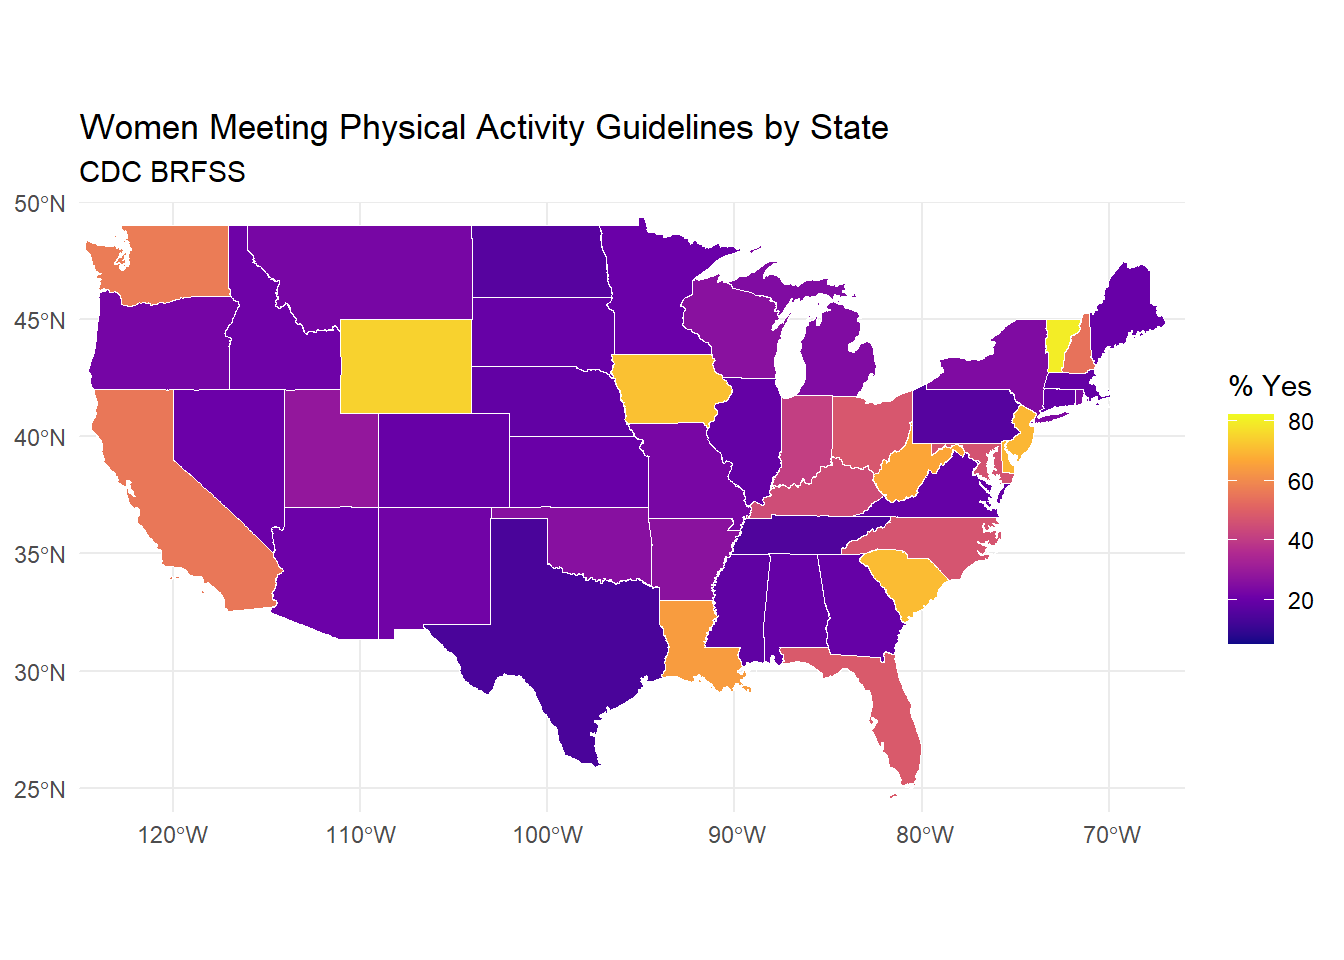
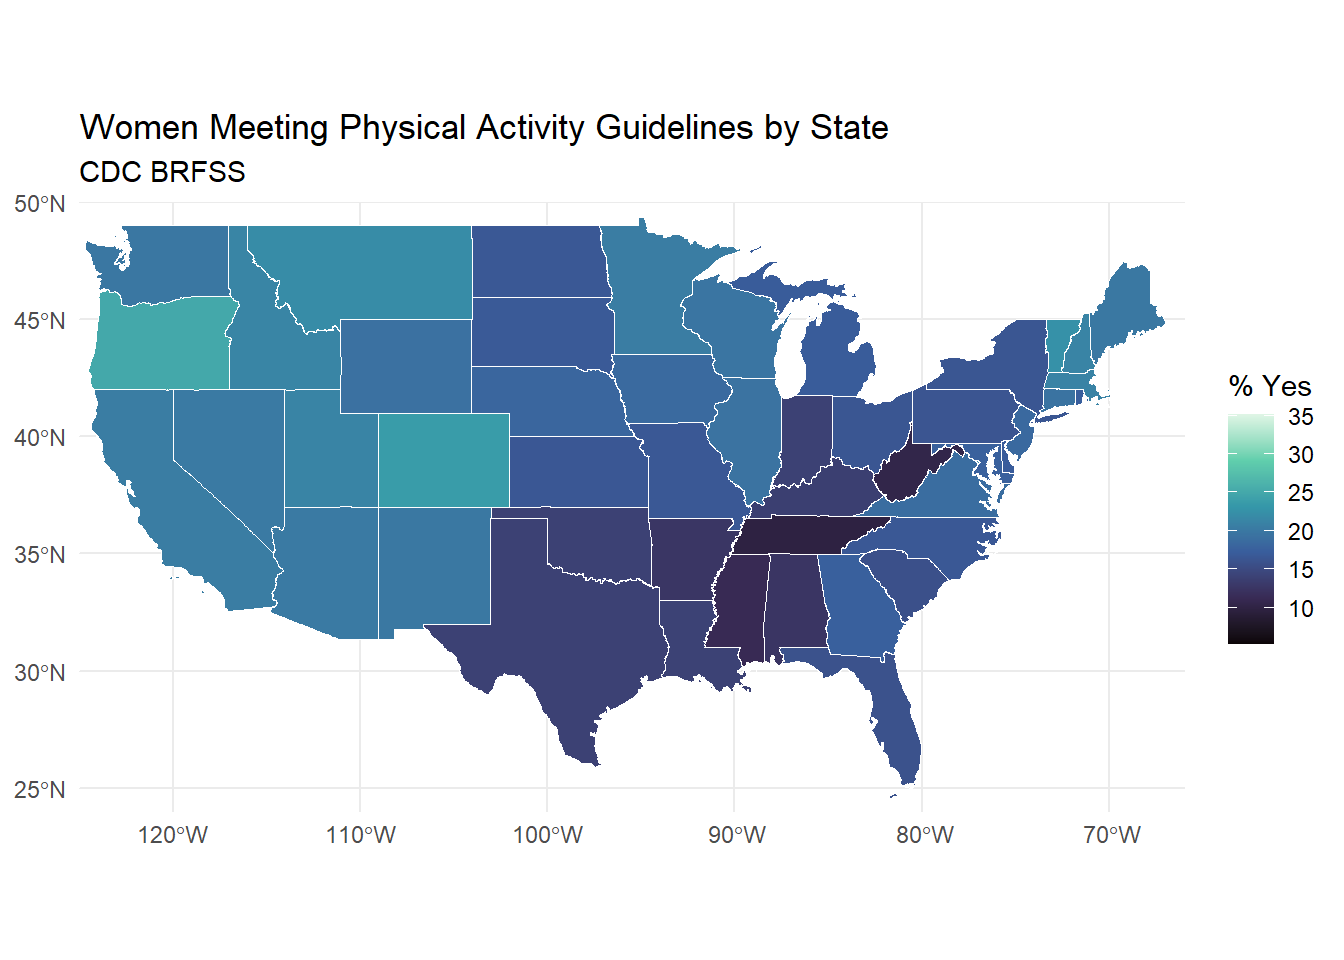
updated chloropleth

Changed region(s): [[0.0625, 0.2188, 0.875, 0.8125], [0.9062, 0.4062, 1.0, 0.6875]]

diff --git a/docs/results.html b/docs/results.html
@@ -546,7 +546,7 @@ pre > code.sourceCode > span > a:first-child::before { text-decoration: underlin
 </div>
 </div>
 </div>
-<p>To help link the NHANES data trends to what I wanted to explore using the BRFSS, I plotted the sedentary minutes responses across the years. Here we can see that reported sedentary time has decreased over the last two cycles. Based on this, when I move to explore physical activity levels, I would expect this would correspond to increased time reported.</p>
+<p>To help link the NHANES data trends to what I wanted to explore using the BRFSS, I plotted the sedentary minutes responses across the years. Here we can see that reported sedentary time has decreased over the last two cycles. Based on this, when I move to explore physical activity levels, I would expect this would correspond to an increase in physical time reported.</p>
 <div class="cell">
 <details class="code-fold">
 <summary>Code</summary>
@@ -577,6 +577,7 @@ pre > code.sourceCode > span > a:first-child::before { text-decoration: underlin
 </div>
 </div>
 </div>
+<p>Officially moving to work with the BRFSS dataset. My main goal with this was to supplement my analysis of physical activity trends for my original research question.</p>
 <div class="cell">
 <details class="code-fold">
 <summary>Code</summary>
@@ -624,7 +625,7 @@ pre > code.sourceCode > span > a:first-child::before { text-decoration: underlin
 <span id="cb16-14"><a href="#cb16-14" aria-hidden="true" tabindex="-1"></a>  <span class="fu">labs</span>(</span>
 <span id="cb16-15"><a href="#cb16-15" aria-hidden="true" tabindex="-1"></a>    <span class="at">title =</span> <span class="st">"Women's Physical Activity Trends (2011–2023)"</span>,</span>
 <span id="cb16-16"><a href="#cb16-16" aria-hidden="true" tabindex="-1"></a>    <span class="at">x =</span> <span class="st">"Year"</span>,</span>
-<span id="cb16-17"><a href="#cb16-17" aria-hidden="true" tabindex="-1"></a>    <span class="at">y =</span> <span class="st">"% of Women Meeting Guideline or Responding 'Yes'"</span>,</span>
+<span id="cb16-17"><a href="#cb16-17" aria-hidden="true" tabindex="-1"></a>    <span class="at">y =</span> <span class="st">"% of Women Responding 'Yes'"</span>,</span>
 <span id="cb16-18"><a href="#cb16-18" aria-hidden="true" tabindex="-1"></a>    <span class="at">color =</span> <span class="st">"Activity Type"</span></span>
 <span id="cb16-19"><a href="#cb16-19" aria-hidden="true" tabindex="-1"></a>  ) <span class="sc">+</span></span>
 <span id="cb16-20"><a href="#cb16-20" aria-hidden="true" tabindex="-1"></a>  <span class="fu">theme_minimal</span>(<span class="at">base_size =</span> <span class="dv">14</span>) <span class="sc">+</span></span>
@@ -671,46 +672,65 @@ pre > code.sourceCode > span > a:first-child::before { text-decoration: underlin
 </div>
 </div>
 </div>
-<p>Finally, I really wanted to look at this spatially to see if certain areas of the country were driving trends more than others.</p>
+<p>Finally, I really wanted to look at this spatially to see if certain areas of the country were driving trends more than others. I chose to do this across the starting and ending range of my data to also visualize how the increase in activity level was spread across the country.</p>
 <div class="cell">
 <details class="code-fold">
 <summary>Code</summary>
 <div class="sourceCode cell-code" id="cb18"><pre class="sourceCode r code-with-copy"><code class="sourceCode r"><span id="cb18-1"><a href="#cb18-1" aria-hidden="true" tabindex="-1"></a>women_pa_13 <span class="ot">&lt;-</span> women_brf <span class="sc">|&gt;</span></span>
 <span id="cb18-2"><a href="#cb18-2" aria-hidden="true" tabindex="-1"></a>  <span class="fu">filter</span>(</span>
-<span id="cb18-3"><a href="#cb18-3" aria-hidden="true" tabindex="-1"></a>    Year <span class="sc">==</span> <span class="dv">2013</span>,                       </span>
-<span id="cb18-4"><a href="#cb18-4" aria-hidden="true" tabindex="-1"></a>    Break_Out_Category <span class="sc">==</span> <span class="st">"Sex"</span>,</span>
-<span id="cb18-5"><a href="#cb18-5" aria-hidden="true" tabindex="-1"></a>    Break_Out <span class="sc">==</span> <span class="st">"Female"</span>,</span>
-<span id="cb18-6"><a href="#cb18-6" aria-hidden="true" tabindex="-1"></a>    Response <span class="sc">==</span> <span class="st">"Yes"</span></span>
-<span id="cb18-7"><a href="#cb18-7" aria-hidden="true" tabindex="-1"></a>  ) <span class="sc">|&gt;</span></span>
-<span id="cb18-8"><a href="#cb18-8" aria-hidden="true" tabindex="-1"></a>  <span class="fu">transmute</span>(</span>
-<span id="cb18-9"><a href="#cb18-9" aria-hidden="true" tabindex="-1"></a>    <span class="at">state_abbr =</span> Locationabbr,    </span>
-<span id="cb18-10"><a href="#cb18-10" aria-hidden="true" tabindex="-1"></a>    <span class="at">pct_yes    =</span> <span class="fu">as.numeric</span>(Data_value)</span>
-<span id="cb18-11"><a href="#cb18-11" aria-hidden="true" tabindex="-1"></a>  )</span>
+<span id="cb18-3"><a href="#cb18-3" aria-hidden="true" tabindex="-1"></a>    Year <span class="sc">==</span> <span class="dv">2013</span>, </span>
+<span id="cb18-4"><a href="#cb18-4" aria-hidden="true" tabindex="-1"></a>    Topic <span class="sc">==</span> <span class="st">"Physical Activity Index"</span>,</span>
+<span id="cb18-5"><a href="#cb18-5" aria-hidden="true" tabindex="-1"></a>    Response <span class="sc">==</span> <span class="st">"Yes"</span></span>
+<span id="cb18-6"><a href="#cb18-6" aria-hidden="true" tabindex="-1"></a>  ) <span class="sc">|&gt;</span></span>
+<span id="cb18-7"><a href="#cb18-7" aria-hidden="true" tabindex="-1"></a>  <span class="fu">transmute</span>(</span>
+<span id="cb18-8"><a href="#cb18-8" aria-hidden="true" tabindex="-1"></a>    <span class="at">state_abbr =</span> Locationabbr,    </span>
+<span id="cb18-9"><a href="#cb18-9" aria-hidden="true" tabindex="-1"></a>    <span class="at">pct_yes    =</span> <span class="fu">as.numeric</span>(Data_value)</span>
+<span id="cb18-10"><a href="#cb18-10" aria-hidden="true" tabindex="-1"></a>  )</span>
+<span id="cb18-11"><a href="#cb18-11" aria-hidden="true" tabindex="-1"></a></span>
 <span id="cb18-12"><a href="#cb18-12" aria-hidden="true" tabindex="-1"></a></span>
-<span id="cb18-13"><a href="#cb18-13" aria-hidden="true" tabindex="-1"></a></span>
-<span id="cb18-14"><a href="#cb18-14" aria-hidden="true" tabindex="-1"></a><span class="co">#states_sf &lt;- states(cb = TRUE)</span></span>
-<span id="cb18-15"><a href="#cb18-15" aria-hidden="true" tabindex="-1"></a><span class="co">#sf::st_write(states_sf, "states_sf.gpkg", quiet = TRUE)</span></span>
-<span id="cb18-16"><a href="#cb18-16" aria-hidden="true" tabindex="-1"></a>states_sf <span class="ot">&lt;-</span> sf<span class="sc">::</span><span class="fu">st_read</span>(<span class="st">"states_sf.gpkg"</span>, <span class="at">quiet =</span> <span class="cn">TRUE</span>)</span>
-<span id="cb18-17"><a href="#cb18-17" aria-hidden="true" tabindex="-1"></a></span>
-<span id="cb18-18"><a href="#cb18-18" aria-hidden="true" tabindex="-1"></a></span>
-<span id="cb18-19"><a href="#cb18-19" aria-hidden="true" tabindex="-1"></a>states_joined_13 <span class="ot">&lt;-</span> states_sf <span class="sc">|&gt;</span></span>
-<span id="cb18-20"><a href="#cb18-20" aria-hidden="true" tabindex="-1"></a>  <span class="fu">left_join</span>(women_pa_13, <span class="at">by =</span> <span class="fu">c</span>(<span class="st">"STUSPS"</span> <span class="ot">=</span> <span class="st">"state_abbr"</span>))</span>
-<span id="cb18-21"><a href="#cb18-21" aria-hidden="true" tabindex="-1"></a></span>
-<span id="cb18-22"><a href="#cb18-22" aria-hidden="true" tabindex="-1"></a></span>
-<span id="cb18-23"><a href="#cb18-23" aria-hidden="true" tabindex="-1"></a><span class="fu">ggplot</span>(states_joined_13) <span class="sc">+</span></span>
-<span id="cb18-24"><a href="#cb18-24" aria-hidden="true" tabindex="-1"></a>  <span class="fu">geom_sf</span>(<span class="fu">aes</span>(<span class="at">fill =</span> pct_yes), <span class="at">color =</span> <span class="st">"white"</span>, <span class="at">size =</span> <span class="fl">0.2</span>) <span class="sc">+</span></span>
-<span id="cb18-25"><a href="#cb18-25" aria-hidden="true" tabindex="-1"></a>  <span class="fu">scale_fill_viridis_c</span>(<span class="at">option =</span> <span class="st">"plasma"</span>, <span class="at">name =</span> <span class="st">"% Yes"</span>) <span class="sc">+</span></span>
-<span id="cb18-26"><a href="#cb18-26" aria-hidden="true" tabindex="-1"></a>  <span class="fu">coord_sf</span>(</span>
-<span id="cb18-27"><a href="#cb18-27" aria-hidden="true" tabindex="-1"></a>    <span class="at">xlim =</span> <span class="fu">c</span>(<span class="sc">-</span><span class="dv">125</span>, <span class="sc">-</span><span class="dv">66</span>),   <span class="co"># zoom to US</span></span>
-<span id="cb18-28"><a href="#cb18-28" aria-hidden="true" tabindex="-1"></a>    <span class="at">ylim =</span> <span class="fu">c</span>(<span class="dv">24</span>, <span class="dv">50</span>),</span>
-<span id="cb18-29"><a href="#cb18-29" aria-hidden="true" tabindex="-1"></a>    <span class="at">expand =</span> <span class="cn">FALSE</span></span>
-<span id="cb18-30"><a href="#cb18-30" aria-hidden="true" tabindex="-1"></a>  ) <span class="sc">+</span></span>
-<span id="cb18-31"><a href="#cb18-31" aria-hidden="true" tabindex="-1"></a>  <span class="fu">labs</span>(</span>
-<span id="cb18-32"><a href="#cb18-32" aria-hidden="true" tabindex="-1"></a>    <span class="at">title =</span> <span class="st">"Women Meeting Physical Activity Guidelines by State"</span>,</span>
-<span id="cb18-33"><a href="#cb18-33" aria-hidden="true" tabindex="-1"></a>    <span class="at">subtitle =</span> <span class="st">"CDC BRFSS"</span>,</span>
-<span id="cb18-34"><a href="#cb18-34" aria-hidden="true" tabindex="-1"></a>    <span class="at">fill =</span> <span class="st">"% Yes"</span></span>
-<span id="cb18-35"><a href="#cb18-35" aria-hidden="true" tabindex="-1"></a>  ) <span class="sc">+</span></span>
-<span id="cb18-36"><a href="#cb18-36" aria-hidden="true" tabindex="-1"></a>  <span class="fu">theme_minimal</span>()</span></code><button title="Copy to Clipboard" class="code-copy-button"><i class="bi"></i></button></pre></div>
+<span id="cb18-13"><a href="#cb18-13" aria-hidden="true" tabindex="-1"></a>women_pa_23 <span class="ot">&lt;-</span> women_brf <span class="sc">|&gt;</span></span>
+<span id="cb18-14"><a href="#cb18-14" aria-hidden="true" tabindex="-1"></a>  <span class="fu">filter</span>(</span>
+<span id="cb18-15"><a href="#cb18-15" aria-hidden="true" tabindex="-1"></a>    Year <span class="sc">==</span> <span class="dv">2023</span>, </span>
+<span id="cb18-16"><a href="#cb18-16" aria-hidden="true" tabindex="-1"></a>    Topic <span class="sc">==</span> <span class="st">"Physical Activity Index"</span>,</span>
+<span id="cb18-17"><a href="#cb18-17" aria-hidden="true" tabindex="-1"></a>    Response <span class="sc">==</span> <span class="st">"Yes"</span></span>
+<span id="cb18-18"><a href="#cb18-18" aria-hidden="true" tabindex="-1"></a>  ) <span class="sc">|&gt;</span></span>
+<span id="cb18-19"><a href="#cb18-19" aria-hidden="true" tabindex="-1"></a>  <span class="fu">transmute</span>(</span>
+<span id="cb18-20"><a href="#cb18-20" aria-hidden="true" tabindex="-1"></a>    <span class="at">state_abbr =</span> Locationabbr,    </span>
+<span id="cb18-21"><a href="#cb18-21" aria-hidden="true" tabindex="-1"></a>    <span class="at">pct_yes    =</span> <span class="fu">as.numeric</span>(Data_value)</span>
+<span id="cb18-22"><a href="#cb18-22" aria-hidden="true" tabindex="-1"></a>  )</span>
+<span id="cb18-23"><a href="#cb18-23" aria-hidden="true" tabindex="-1"></a></span>
+<span id="cb18-24"><a href="#cb18-24" aria-hidden="true" tabindex="-1"></a><span class="co">#realized I needed to freeze the color scales so graphs would be comparable</span></span>
+<span id="cb18-25"><a href="#cb18-25" aria-hidden="true" tabindex="-1"></a>min_val <span class="ot">&lt;-</span> <span class="fu">min</span>(<span class="fu">c</span>(women_pa_13<span class="sc">$</span>pct_yes, women_pa_23<span class="sc">$</span>pct_yes), <span class="at">na.rm =</span> <span class="cn">TRUE</span>)</span>
+<span id="cb18-26"><a href="#cb18-26" aria-hidden="true" tabindex="-1"></a>max_val <span class="ot">&lt;-</span> <span class="fu">max</span>(<span class="fu">c</span>(women_pa_13<span class="sc">$</span>pct_yes, women_pa_23<span class="sc">$</span>pct_yes), <span class="at">na.rm =</span> <span class="cn">TRUE</span>)</span>
+<span id="cb18-27"><a href="#cb18-27" aria-hidden="true" tabindex="-1"></a></span>
+<span id="cb18-28"><a href="#cb18-28" aria-hidden="true" tabindex="-1"></a></span>
+<span id="cb18-29"><a href="#cb18-29" aria-hidden="true" tabindex="-1"></a></span>
+<span id="cb18-30"><a href="#cb18-30" aria-hidden="true" tabindex="-1"></a><span class="co">#states_sf &lt;- states(cb = TRUE)</span></span>
+<span id="cb18-31"><a href="#cb18-31" aria-hidden="true" tabindex="-1"></a><span class="co">#sf::st_write(states_sf, "states_sf.gpkg", quiet = TRUE)</span></span>
+<span id="cb18-32"><a href="#cb18-32" aria-hidden="true" tabindex="-1"></a>states_sf <span class="ot">&lt;-</span> sf<span class="sc">::</span><span class="fu">st_read</span>(<span class="st">"states_sf.gpkg"</span>, <span class="at">quiet =</span> <span class="cn">TRUE</span>)</span>
+<span id="cb18-33"><a href="#cb18-33" aria-hidden="true" tabindex="-1"></a></span>
+<span id="cb18-34"><a href="#cb18-34" aria-hidden="true" tabindex="-1"></a></span>
+<span id="cb18-35"><a href="#cb18-35" aria-hidden="true" tabindex="-1"></a>states_joined_13 <span class="ot">&lt;-</span> states_sf <span class="sc">|&gt;</span></span>
+<span id="cb18-36"><a href="#cb18-36" aria-hidden="true" tabindex="-1"></a>  <span class="fu">left_join</span>(women_pa_13, <span class="at">by =</span> <span class="fu">c</span>(<span class="st">"STUSPS"</span> <span class="ot">=</span> <span class="st">"state_abbr"</span>))</span>
+<span id="cb18-37"><a href="#cb18-37" aria-hidden="true" tabindex="-1"></a></span>
+<span id="cb18-38"><a href="#cb18-38" aria-hidden="true" tabindex="-1"></a></span>
+<span id="cb18-39"><a href="#cb18-39" aria-hidden="true" tabindex="-1"></a><span class="fu">ggplot</span>(states_joined_13) <span class="sc">+</span></span>
+<span id="cb18-40"><a href="#cb18-40" aria-hidden="true" tabindex="-1"></a>  <span class="fu">geom_sf</span>(<span class="fu">aes</span>(<span class="at">fill =</span> pct_yes), <span class="at">color =</span> <span class="st">"white"</span>, <span class="at">size =</span> <span class="fl">0.2</span>) <span class="sc">+</span></span>
+<span id="cb18-41"><a href="#cb18-41" aria-hidden="true" tabindex="-1"></a>  <span class="fu">scale_fill_viridis_c</span>(</span>
+<span id="cb18-42"><a href="#cb18-42" aria-hidden="true" tabindex="-1"></a>  <span class="at">option =</span> <span class="st">"mako"</span>,</span>
+<span id="cb18-43"><a href="#cb18-43" aria-hidden="true" tabindex="-1"></a>  <span class="at">name =</span> <span class="st">"% Yes"</span>,</span>
+<span id="cb18-44"><a href="#cb18-44" aria-hidden="true" tabindex="-1"></a>  <span class="at">limits =</span> <span class="fu">c</span>(min_val, max_val)) <span class="sc">+</span></span>
+<span id="cb18-45"><a href="#cb18-45" aria-hidden="true" tabindex="-1"></a>  <span class="fu">coord_sf</span>(</span>
+<span id="cb18-46"><a href="#cb18-46" aria-hidden="true" tabindex="-1"></a>    <span class="at">xlim =</span> <span class="fu">c</span>(<span class="sc">-</span><span class="dv">125</span>, <span class="sc">-</span><span class="dv">66</span>),   <span class="co"># zoom to US</span></span>
+<span id="cb18-47"><a href="#cb18-47" aria-hidden="true" tabindex="-1"></a>    <span class="at">ylim =</span> <span class="fu">c</span>(<span class="dv">24</span>, <span class="dv">50</span>),</span>
+<span id="cb18-48"><a href="#cb18-48" aria-hidden="true" tabindex="-1"></a>    <span class="at">expand =</span> <span class="cn">FALSE</span></span>
+<span id="cb18-49"><a href="#cb18-49" aria-hidden="true" tabindex="-1"></a>  ) <span class="sc">+</span></span>
+<span id="cb18-50"><a href="#cb18-50" aria-hidden="true" tabindex="-1"></a>  <span class="fu">labs</span>(</span>
+<span id="cb18-51"><a href="#cb18-51" aria-hidden="true" tabindex="-1"></a>    <span class="at">title =</span> <span class="st">"Women Meeting Physical Activity Guidelines by State"</span>,</span>
+<span id="cb18-52"><a href="#cb18-52" aria-hidden="true" tabindex="-1"></a>    <span class="at">subtitle =</span> <span class="st">"CDC BRFSS"</span>,</span>
+<span id="cb18-53"><a href="#cb18-53" aria-hidden="true" tabindex="-1"></a>    <span class="at">fill =</span> <span class="st">"% Yes"</span></span>
+<span id="cb18-54"><a href="#cb18-54" aria-hidden="true" tabindex="-1"></a>  ) <span class="sc">+</span></span>
+<span id="cb18-55"><a href="#cb18-55" aria-hidden="true" tabindex="-1"></a>  <span class="fu">theme_minimal</span>()</span></code><button title="Copy to Clipboard" class="code-copy-button"><i class="bi"></i></button></pre></div>
 </details>
 <div class="cell-output-display">
 <div>
@@ -723,37 +743,26 @@ pre > code.sourceCode > span > a:first-child::before { text-decoration: underlin
 <div class="cell">
 <details class="code-fold">
 <summary>Code</summary>
-<div class="sourceCode cell-code" id="cb19"><pre class="sourceCode r code-with-copy"><code class="sourceCode r"><span id="cb19-1"><a href="#cb19-1" aria-hidden="true" tabindex="-1"></a>women_pa_23 <span class="ot">&lt;-</span> women_brf <span class="sc">|&gt;</span></span>
-<span id="cb19-2"><a href="#cb19-2" aria-hidden="true" tabindex="-1"></a>  <span class="fu">filter</span>(</span>
-<span id="cb19-3"><a href="#cb19-3" aria-hidden="true" tabindex="-1"></a>    Year <span class="sc">==</span> <span class="dv">2023</span>,                       </span>
-<span id="cb19-4"><a href="#cb19-4" aria-hidden="true" tabindex="-1"></a>    Break_Out_Category <span class="sc">==</span> <span class="st">"Sex"</span>,</span>
-<span id="cb19-5"><a href="#cb19-5" aria-hidden="true" tabindex="-1"></a>    Break_Out <span class="sc">==</span> <span class="st">"Female"</span>,</span>
-<span id="cb19-6"><a href="#cb19-6" aria-hidden="true" tabindex="-1"></a>    Response <span class="sc">==</span> <span class="st">"Yes"</span></span>
-<span id="cb19-7"><a href="#cb19-7" aria-hidden="true" tabindex="-1"></a>  ) <span class="sc">|&gt;</span></span>
-<span id="cb19-8"><a href="#cb19-8" aria-hidden="true" tabindex="-1"></a>  <span class="fu">transmute</span>(</span>
-<span id="cb19-9"><a href="#cb19-9" aria-hidden="true" tabindex="-1"></a>    <span class="at">state_abbr =</span> Locationabbr,    </span>
-<span id="cb19-10"><a href="#cb19-10" aria-hidden="true" tabindex="-1"></a>    <span class="at">pct_yes    =</span> <span class="fu">as.numeric</span>(Data_value)</span>
-<span id="cb19-11"><a href="#cb19-11" aria-hidden="true" tabindex="-1"></a>  )</span>
-<span id="cb19-12"><a href="#cb19-12" aria-hidden="true" tabindex="-1"></a></span>
-<span id="cb19-13"><a href="#cb19-13" aria-hidden="true" tabindex="-1"></a></span>
-<span id="cb19-14"><a href="#cb19-14" aria-hidden="true" tabindex="-1"></a></span>
-<span id="cb19-15"><a href="#cb19-15" aria-hidden="true" tabindex="-1"></a>states_joined_23 <span class="ot">&lt;-</span> states_sf <span class="sc">|&gt;</span></span>
-<span id="cb19-16"><a href="#cb19-16" aria-hidden="true" tabindex="-1"></a>  <span class="fu">left_join</span>(women_pa_23, <span class="at">by =</span> <span class="fu">c</span>(<span class="st">"STUSPS"</span> <span class="ot">=</span> <span class="st">"state_abbr"</span>))</span>
-<span id="cb19-17"><a href="#cb19-17" aria-hidden="true" tabindex="-1"></a></span>
-<span id="cb19-18"><a href="#cb19-18" aria-hidden="true" tabindex="-1"></a><span class="fu">ggplot</span>(states_joined_23) <span class="sc">+</span></span>
-<span id="cb19-19"><a href="#cb19-19" aria-hidden="true" tabindex="-1"></a>  <span class="fu">geom_sf</span>(<span class="fu">aes</span>(<span class="at">fill =</span> pct_yes), <span class="at">color =</span> <span class="st">"white"</span>, <span class="at">size =</span> <span class="fl">0.2</span>) <span class="sc">+</span></span>
-<span id="cb19-20"><a href="#cb19-20" aria-hidden="true" tabindex="-1"></a>  <span class="fu">scale_fill_viridis_c</span>(<span class="at">option =</span> <span class="st">"plasma"</span>, <span class="at">name =</span> <span class="st">"% Yes"</span>) <span class="sc">+</span></span>
-<span id="cb19-21"><a href="#cb19-21" aria-hidden="true" tabindex="-1"></a>  <span class="fu">coord_sf</span>(</span>
-<span id="cb19-22"><a href="#cb19-22" aria-hidden="true" tabindex="-1"></a>    <span class="at">xlim =</span> <span class="fu">c</span>(<span class="sc">-</span><span class="dv">125</span>, <span class="sc">-</span><span class="dv">66</span>),   <span class="co"># zoom to US</span></span>
-<span id="cb19-23"><a href="#cb19-23" aria-hidden="true" tabindex="-1"></a>    <span class="at">ylim =</span> <span class="fu">c</span>(<span class="dv">24</span>, <span class="dv">50</span>),</span>
-<span id="cb19-24"><a href="#cb19-24" aria-hidden="true" tabindex="-1"></a>    <span class="at">expand =</span> <span class="cn">FALSE</span></span>
-<span id="cb19-25"><a href="#cb19-25" aria-hidden="true" tabindex="-1"></a>  ) <span class="sc">+</span></span>
-<span id="cb19-26"><a href="#cb19-26" aria-hidden="true" tabindex="-1"></a>  <span class="fu">labs</span>(</span>
-<span id="cb19-27"><a href="#cb19-27" aria-hidden="true" tabindex="-1"></a>    <span class="at">title =</span> <span class="st">"Women Meeting Physical Activity Guidelines by State"</span>,</span>
-<span id="cb19-28"><a href="#cb19-28" aria-hidden="true" tabindex="-1"></a>    <span class="at">subtitle =</span> <span class="st">"CDC BRFSS"</span>,</span>
-<span id="cb19-29"><a href="#cb19-29" aria-hidden="true" tabindex="-1"></a>    <span class="at">fill =</span> <span class="st">"% Yes"</span></span>
-<span id="cb19-30"><a href="#cb19-30" aria-hidden="true" tabindex="-1"></a>  ) <span class="sc">+</span></span>
-<span id="cb19-31"><a href="#cb19-31" aria-hidden="true" tabindex="-1"></a>  <span class="fu">theme_minimal</span>()</span></code><button title="Copy to Clipboard" class="code-copy-button"><i class="bi"></i></button></pre></div>
+<div class="sourceCode cell-code" id="cb19"><pre class="sourceCode r code-with-copy"><code class="sourceCode r"><span id="cb19-1"><a href="#cb19-1" aria-hidden="true" tabindex="-1"></a>states_joined_23 <span class="ot">&lt;-</span> states_sf <span class="sc">|&gt;</span></span>
+<span id="cb19-2"><a href="#cb19-2" aria-hidden="true" tabindex="-1"></a>  <span class="fu">left_join</span>(women_pa_23, <span class="at">by =</span> <span class="fu">c</span>(<span class="st">"STUSPS"</span> <span class="ot">=</span> <span class="st">"state_abbr"</span>))</span>
+<span id="cb19-3"><a href="#cb19-3" aria-hidden="true" tabindex="-1"></a></span>
+<span id="cb19-4"><a href="#cb19-4" aria-hidden="true" tabindex="-1"></a><span class="fu">ggplot</span>(states_joined_23) <span class="sc">+</span></span>
+<span id="cb19-5"><a href="#cb19-5" aria-hidden="true" tabindex="-1"></a>  <span class="fu">geom_sf</span>(<span class="fu">aes</span>(<span class="at">fill =</span> pct_yes), <span class="at">color =</span> <span class="st">"white"</span>, <span class="at">size =</span> <span class="fl">0.2</span>) <span class="sc">+</span></span>
+<span id="cb19-6"><a href="#cb19-6" aria-hidden="true" tabindex="-1"></a>  <span class="fu">scale_fill_viridis_c</span>(</span>
+<span id="cb19-7"><a href="#cb19-7" aria-hidden="true" tabindex="-1"></a>  <span class="at">option =</span> <span class="st">"mako"</span>,</span>
+<span id="cb19-8"><a href="#cb19-8" aria-hidden="true" tabindex="-1"></a>  <span class="at">name =</span> <span class="st">"% Yes"</span>,</span>
+<span id="cb19-9"><a href="#cb19-9" aria-hidden="true" tabindex="-1"></a>  <span class="at">limits =</span> <span class="fu">c</span>(min_val, max_val)) <span class="sc">+</span></span>
+<span id="cb19-10"><a href="#cb19-10" aria-hidden="true" tabindex="-1"></a>  <span class="fu">coord_sf</span>(</span>
+<span id="cb19-11"><a href="#cb19-11" aria-hidden="true" tabindex="-1"></a>    <span class="at">xlim =</span> <span class="fu">c</span>(<span class="sc">-</span><span class="dv">125</span>, <span class="sc">-</span><span class="dv">66</span>),   <span class="co"># zoom to US</span></span>
+<span id="cb19-12"><a href="#cb19-12" aria-hidden="true" tabindex="-1"></a>    <span class="at">ylim =</span> <span class="fu">c</span>(<span class="dv">24</span>, <span class="dv">50</span>),</span>
+<span id="cb19-13"><a href="#cb19-13" aria-hidden="true" tabindex="-1"></a>    <span class="at">expand =</span> <span class="cn">FALSE</span></span>
+<span id="cb19-14"><a href="#cb19-14" aria-hidden="true" tabindex="-1"></a>  ) <span class="sc">+</span></span>
+<span id="cb19-15"><a href="#cb19-15" aria-hidden="true" tabindex="-1"></a>  <span class="fu">labs</span>(</span>
+<span id="cb19-16"><a href="#cb19-16" aria-hidden="true" tabindex="-1"></a>    <span class="at">title =</span> <span class="st">"Women Meeting Physical Activity Guidelines by State"</span>,</span>
+<span id="cb19-17"><a href="#cb19-17" aria-hidden="true" tabindex="-1"></a>    <span class="at">subtitle =</span> <span class="st">"CDC BRFSS"</span>,</span>
+<span id="cb19-18"><a href="#cb19-18" aria-hidden="true" tabindex="-1"></a>    <span class="at">fill =</span> <span class="st">"% Yes"</span></span>
+<span id="cb19-19"><a href="#cb19-19" aria-hidden="true" tabindex="-1"></a>  ) <span class="sc">+</span></span>
+<span id="cb19-20"><a href="#cb19-20" aria-hidden="true" tabindex="-1"></a>  <span class="fu">theme_minimal</span>()</span></code><button title="Copy to Clipboard" class="code-copy-button"><i class="bi"></i></button></pre></div>
 </details>
 <div class="cell-output-display">
 <div>
